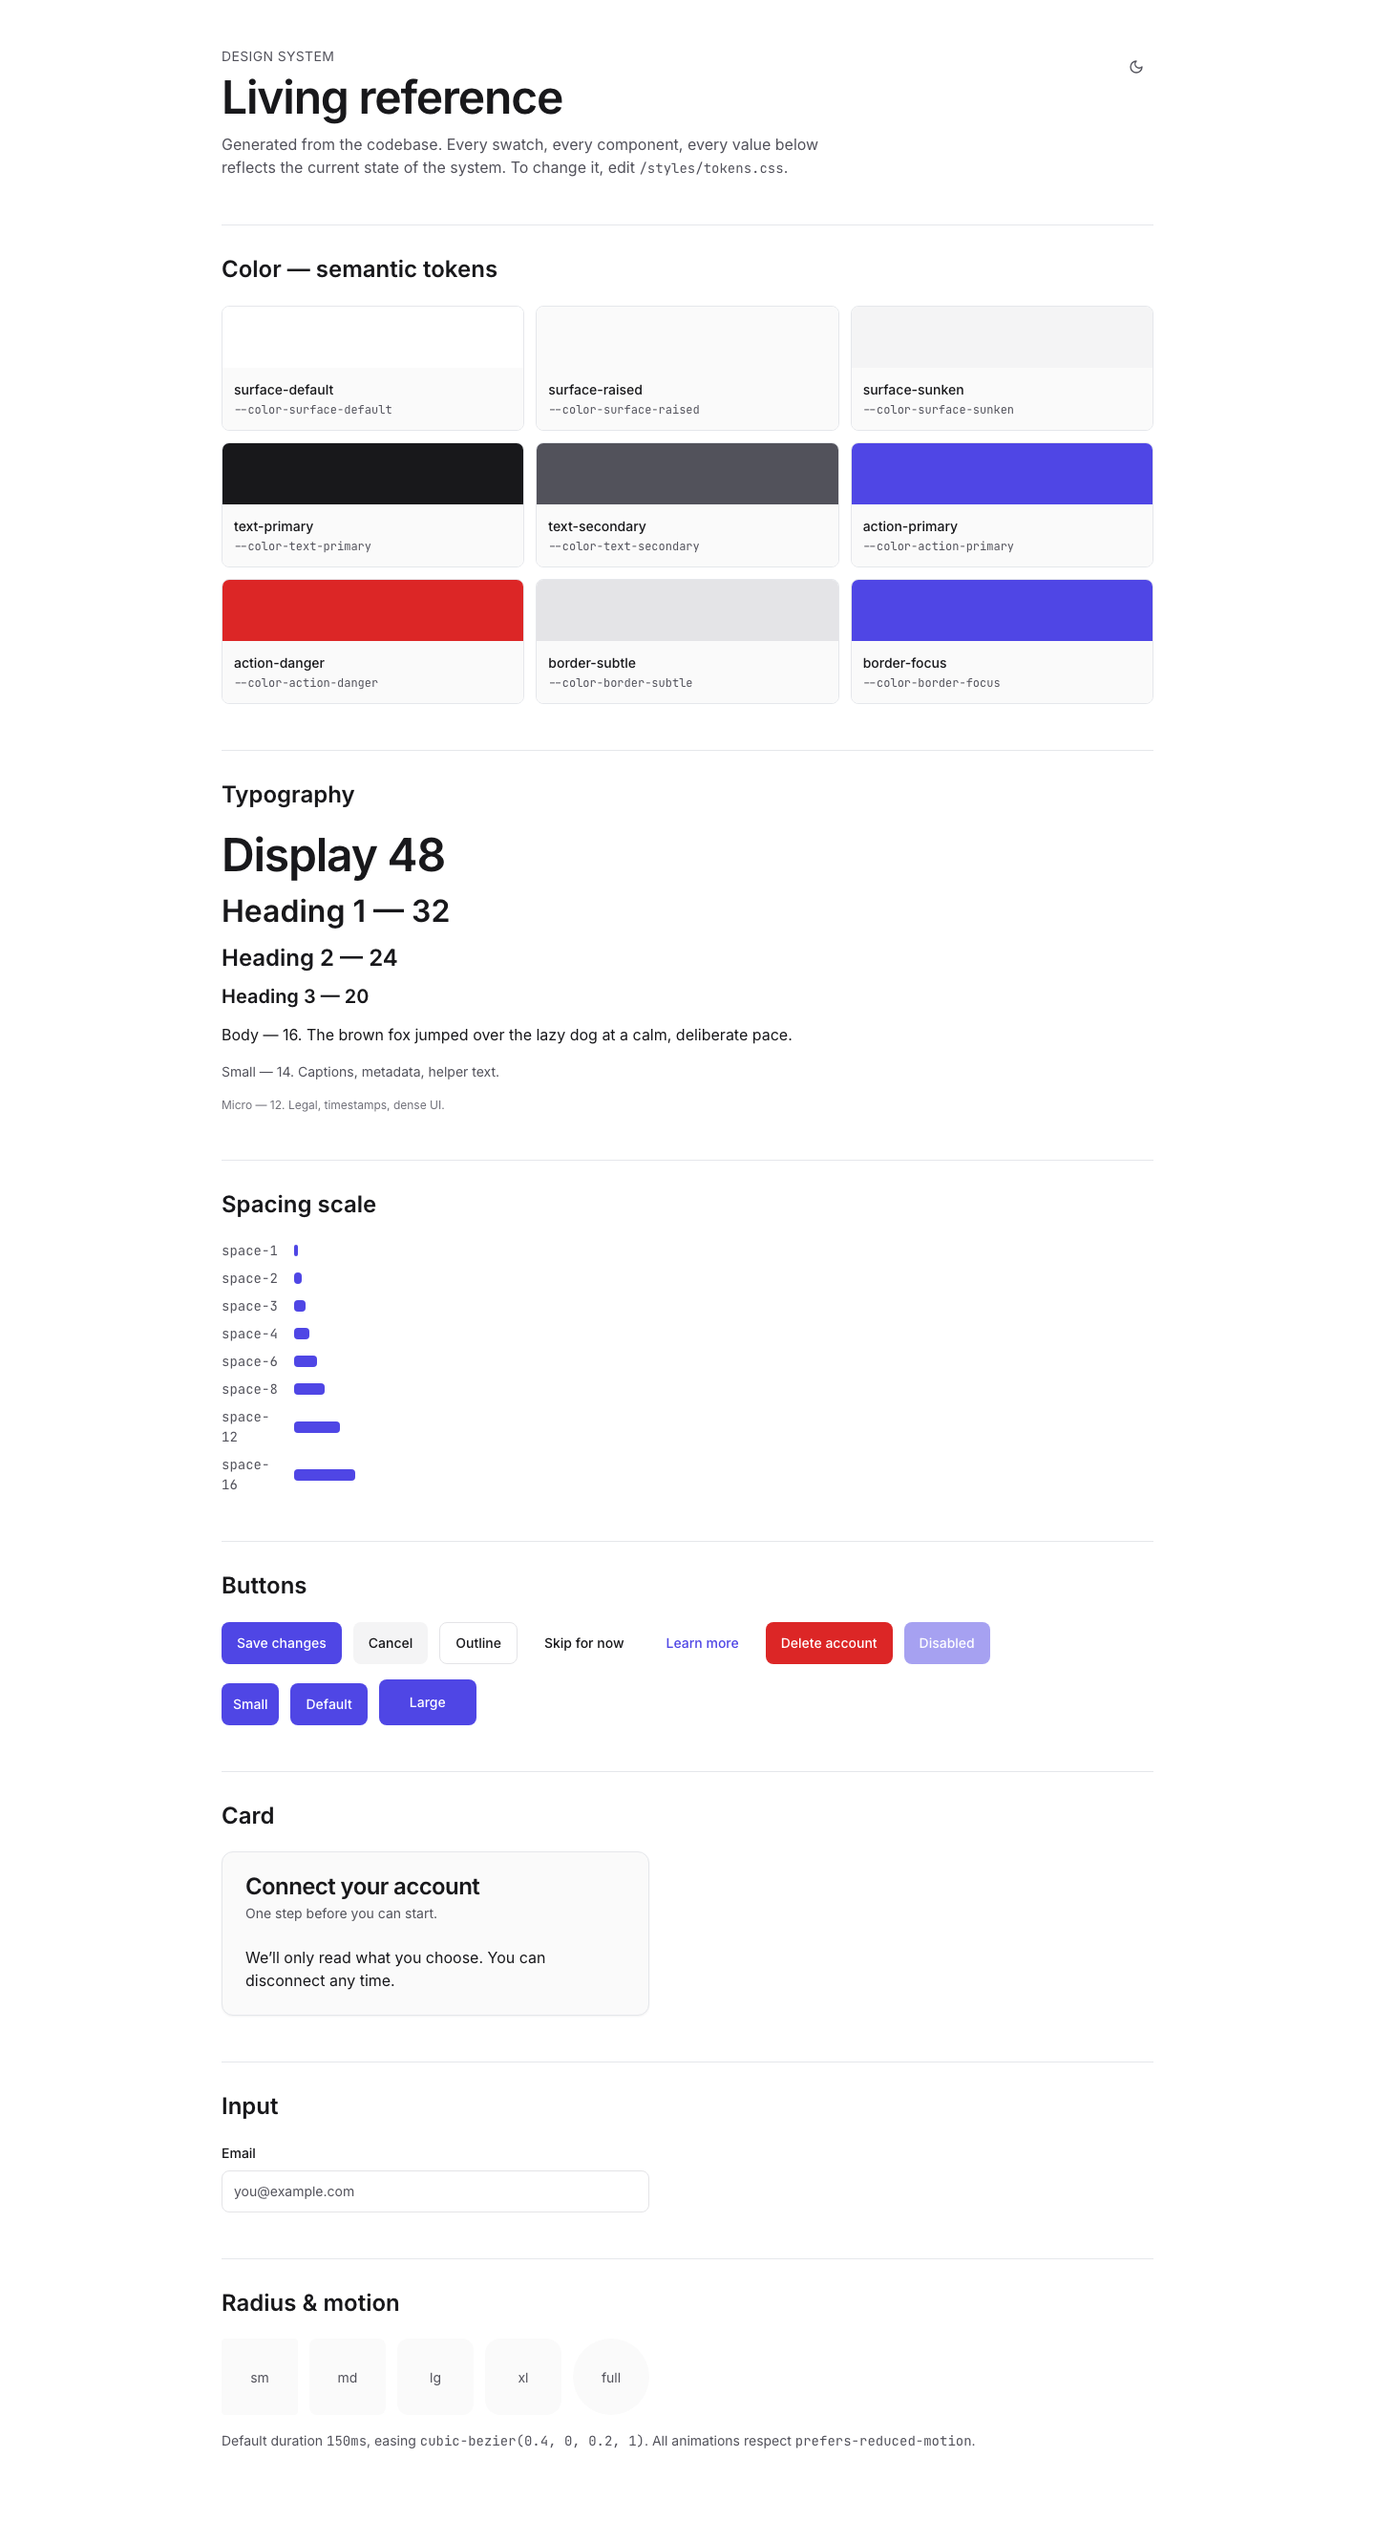
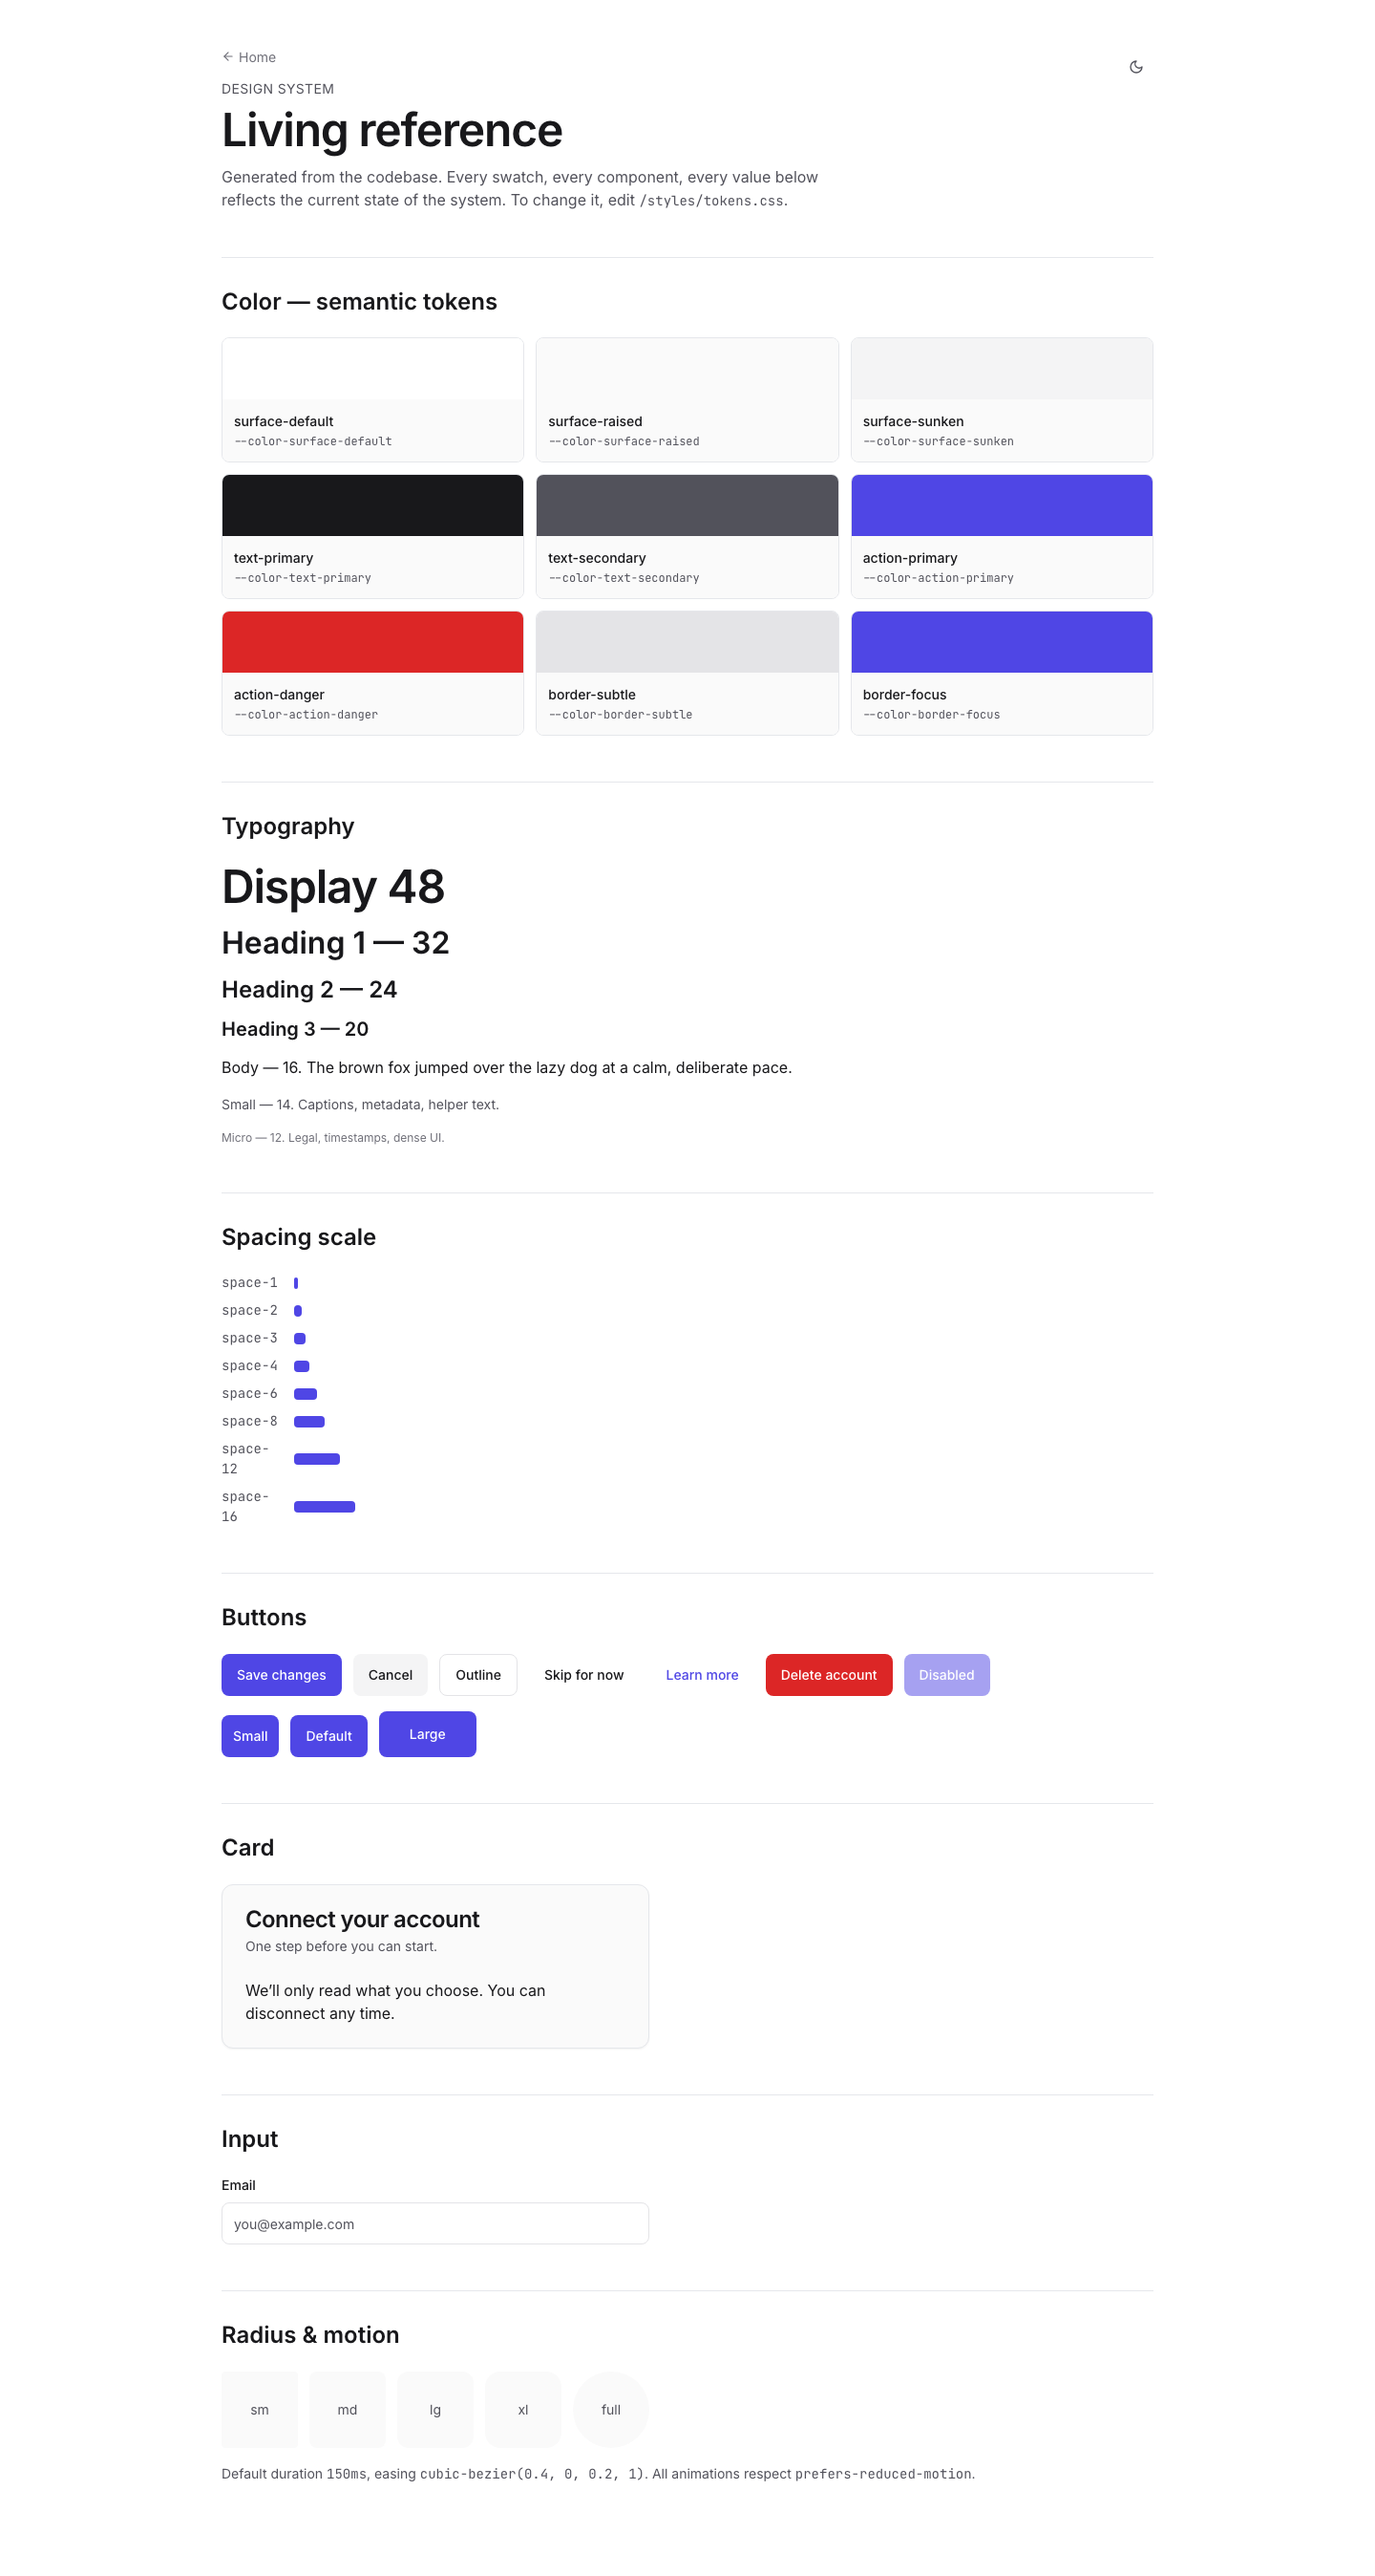
Add Home back link to /canvas and /design-system; fix invisible Canvas title in dark mode
The canvas chrome is intentionally always dark (Figma-style), but it
was using `text-text-on-inverse` which flips to neutral-900 (dark) in
dark mode — making the "Canvas" sidebar title invisible against the
dark chrome. Switched the chrome wrapper to explicit `text-white`
since the chrome's color is decoupled from the user's theme.

Both /canvas (sidebar header) and /design-system (page header) now
have a small "← Home" link to /. Without it, designers had to type
the URL or use browser back, which felt off given the Figma-like
chrome implies a tool, not a single page.

diff --git a/app/canvas/canvas-shell.tsx b/app/canvas/canvas-shell.tsx
@@ -1,8 +1,9 @@
 "use client";
 
 import * as React from "react";
+import Link from "next/link";
 import { useRouter, useSearchParams } from "next/navigation";
-import { Keyboard, X } from "lucide-react";
+import { ArrowLeft, Keyboard, X } from "lucide-react";
 import { cn } from "@/lib/utils";
 import { CanvasView } from "./canvas-view";
 import { PrototypeView } from "./prototype-view";
@@ -115,12 +116,21 @@ export function CanvasShell({
   const visibleCount = visibleFlows.reduce((n, f) => n + f.screens.length, 0);
 
   return (
-    <div className="flex h-dvh w-full bg-[#1a1a1a] text-text-on-inverse">
-      {/* Left flow nav */}
+    <div className="flex h-dvh w-full bg-[#1a1a1a] text-white">
+      {/* Left flow nav. The chrome is always dark — text classes here use
+          explicit white/* opacities (not theme tokens) so dark-mode doesn't
+          flip them to black. */}
       <aside className="flex w-60 shrink-0 flex-col border-r border-white/10 bg-[#141414]">
         <header className="border-b border-white/10 px-4 py-4">
+          <Link
+            href="/"
+            className="mb-2 inline-flex items-center gap-1 text-micro text-white/50 transition-colors hover:text-white"
+          >
+            <ArrowLeft size={12} />
+            Home
+          </Link>
           <p className="text-micro uppercase tracking-wide text-white/50">Design tools</p>
-          <h1 className="text-h3 font-semibold">Canvas</h1>
+          <h1 className="text-h3 font-semibold text-white">Canvas</h1>
         </header>
 
         <nav className="flex-1 overflow-y-auto p-2">

diff --git a/app/design-system/page.tsx b/app/design-system/page.tsx
@@ -1,3 +1,5 @@
+import Link from "next/link";
+import { ArrowLeft } from "lucide-react";
 import { Button } from "@/components/ui/button";
 import { Card, CardContent, CardHeader, CardTitle, CardDescription } from "@/components/ui/card";
 import { Input } from "@/components/ui/input";
@@ -14,6 +16,13 @@ export default function DesignSystemPage() {
     <main className="mx-auto max-w-5xl px-6 py-12">
       <header className="mb-12 flex items-start justify-between gap-6">
         <div>
+          <Link
+            href="/"
+            className="mb-3 inline-flex items-center gap-1 text-small text-text-tertiary transition-colors hover:text-text-secondary"
+          >
+            <ArrowLeft size={14} />
+            Home
+          </Link>
           <p className="text-small uppercase tracking-wide text-text-secondary">Design system</p>
           <h1 className="mt-2 text-display font-semibold tracking-tight">Living reference</h1>
           <p className="mt-3 max-w-2xl text-body text-text-secondary">
